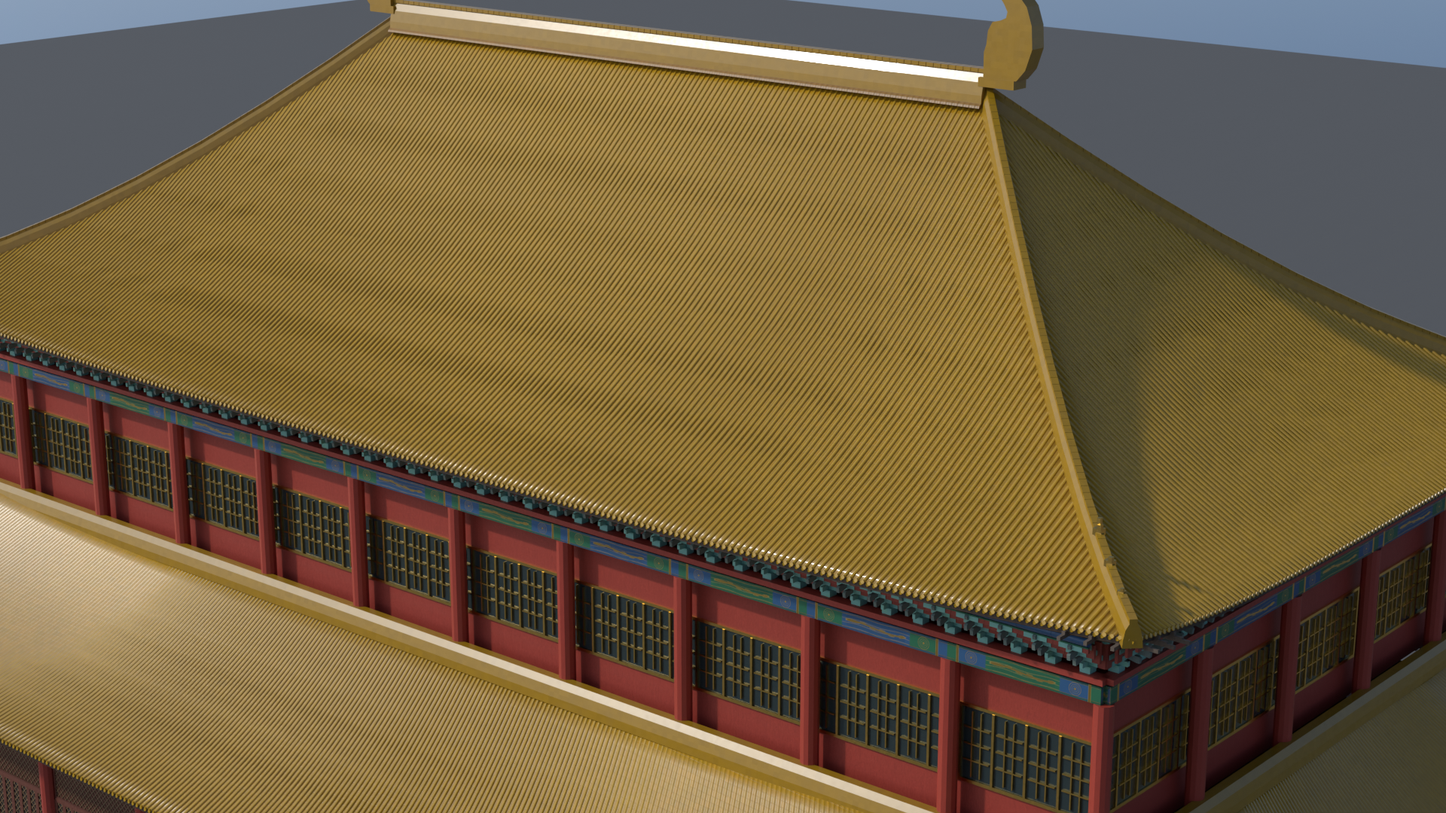
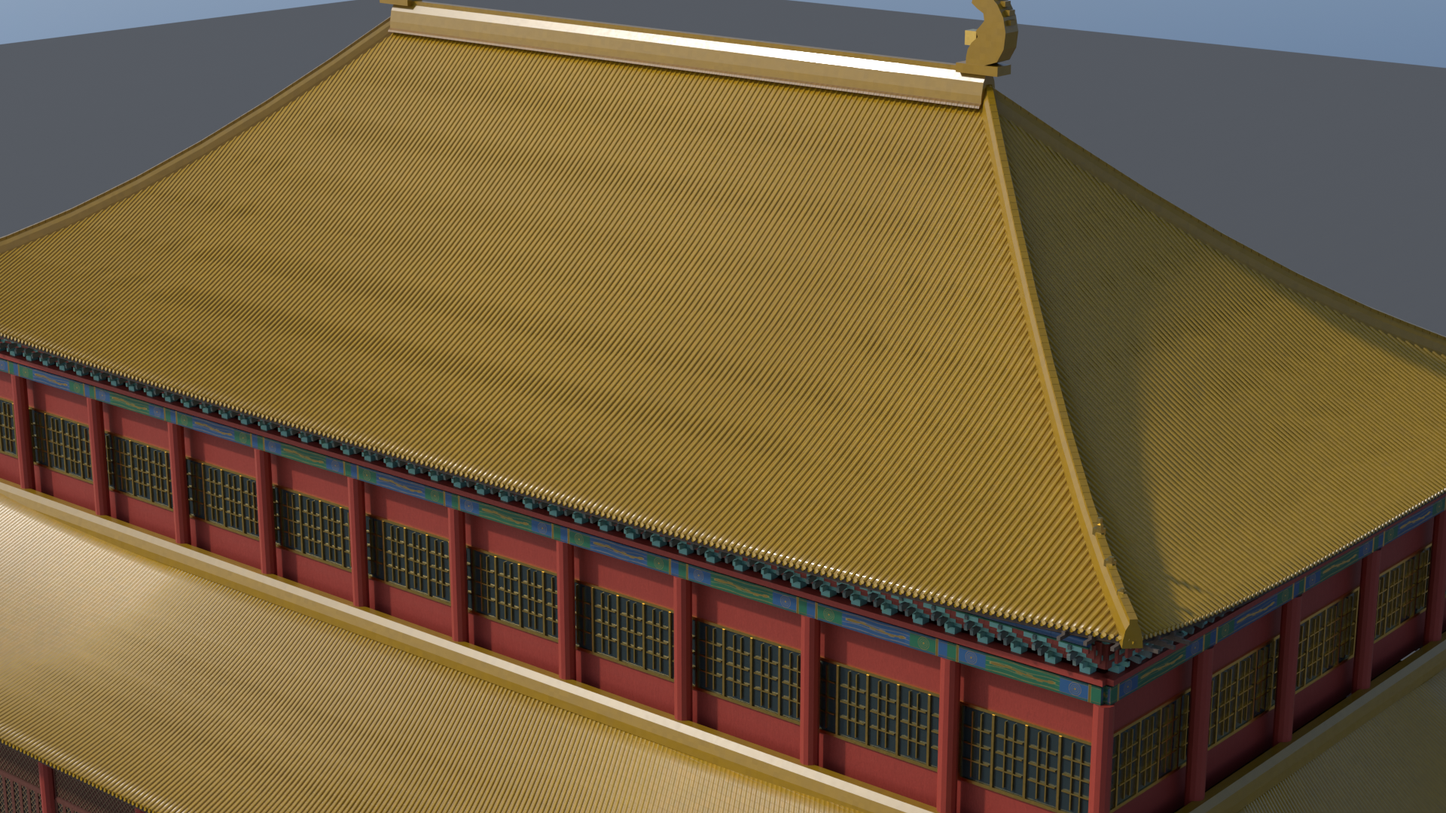
fix(palace): 鸱吻落座正脊＋盖脊瓦成排
- 鸱吻：吻座改坐脊顶（zr+1.26，正脊顶 zr+1.34），原点内移 0.95 m，
  不再大半悬在脊端之外；吻身重画（补吻口、尾尖 3.46 m 内勾、背凹加深），
  加四片背鳍（原本漏了材质，渲染成白块）、龙首、1.5 m 立刃剑把
- 正脊盖脊瓦：中心 zr+1.41→1.38、宽 0.54→0.40（窄于脊顶 0.456）、
  下压 6 cm 露出 17 cm、间距 0.42→0.34，成为脊顶一排真筒瓦
- 五机位整批 57 s

Changed region(s): [[0.6562, 0.0, 0.7188, 0.1222], [0.25, 0.0, 0.3125, 0.0306]]

diff --git a/tools/palace/lg_roof.py b/tools/palace/lg_roof.py
@@ -657,14 +657,14 @@ def ridge_set(pl, name, W, D, z0, H, lift=1.35, lod=2, mat=None, kiss=True):
     objs.append(sweep(pl, name + "·当沟", pts, 0.76, -0.20, 0.10,
                       pl.MAT.get("tile2") or mat))
     # 盖脊瓦：沿正脊顶排一排小块，破掉"一根光板"
-    nseg = max(6, int(L / 0.42))
+    nseg = max(6, int(L / 0.34))
     vv, ff = [], []
     for i in range(nseg):
         t = (i + 0.5) / nseg
         x = -L / 2 + t * L
         # 抬高 0.12 并加宽到 0.54：原来压在正脊圆弧里，根本看不见分件
-        _box_t(vv, ff, (x, 0.0, zr + 1.34 + 0.07), (1.0, 0.0, 0.0), (0.0, 1.0, 0.0),
-               (0.0, 0.0, 1.0), L / nseg - 0.03, 0.54, 0.19)
+        _box_t(vv, ff, (x, 0.0, zr + 1.38), (1.0, 0.0, 0.0), (0.0, 1.0, 0.0),
+               (0.0, 0.0, 1.0), L / nseg + 0.02, 0.40, 0.26)
     objs.append(pl.mesh_from(name + "·盖脊瓦", vv, ff, mat, merge=False))
     if kiss:
         for s in (-1, 1):
@@ -704,27 +704,38 @@ def ridge_set(pl, name, W, D, z0, H, lift=1.35, lod=2, mat=None, kiss=True):
 
 
 def _chiwen(pl, name, x_end, zr, s, mat, gold):
-    """鸱吻（正吻）：吻座 + 卷尾主体 + 剑把 + 背兽。
+    """鸱吻（正吻）：吻座 + 吻身（含吻口）+ 剑把 + 背兽。
 
-    侧看成"逗号"：底宽、背上鼓、尾上卷、口朝脊咬住正脊端；
-    轮廓取直线段（不用多点平滑），4 m 高度在 60 m 外才立得住。
+    三处老毛病一次改掉：
+    * 吻座原本埋在脊筒腰里（0.72），吻身从脊顶下 0.20 m 起 —— 远看是"浮在脊上的钩子"；
+      现改为坐在脊筒顶（`zr+1.26`，正脊顶是 `zr+1.34`），下压 8 cm，找不到缝。
+    * 吻身整体挂在脊端之外（座只有 0.26 m 落在脊上），现把原点内移到 `x_end−0.95`，
+      三成叠在脊上、七成出挑 —— 正吻本来就是咬住脊端往外探的姿态。
+    * 轮廓补出**吻口**（内侧 dz 0.42 收进 −0.06，负值即越过脊端），看得出是"咬"。
     """
-    base_z = zr + 0.72                       # 坐在正脊顶（吻座下皮）
-    # 吻座
-    pl.box(name + "·吻座", 1.95, 1.02, 0.42, x_end + s * 0.72, 0, base_z,
-           mat)
-    z0 = base_z + 0.42
-    prof = [(0.00, 0.00), (1.55, 0.00), (1.95, 0.45), (2.24, 1.30),
-            (2.18, 2.20), (1.92, 2.92), (1.46, 3.42), (1.02, 3.66),
-            (0.72, 3.56), (0.66, 3.22), (0.88, 2.94), (1.04, 2.66),
-            (0.98, 2.42), (0.72, 2.30), (0.36, 2.22), (0.16, 1.86),
-            (0.10, 1.30), (0.00, 1.02)]
-    sc = 1.16
+    sc = 1.0
+    x_org = x_end - s * 0.95
+    base_z = zr + 1.26                       # 正脊顶 = zr+1.34，下压 8 cm
+    pl.box(name + "·吻座", 2.30, 1.10, 0.44, x_org + s * 0.62, 0, base_z, mat)
+    z0 = base_z + 0.40
+    # 侧看成"逗号"：底宽、腹鼓、尾上卷、口朝内咬住正脊
+    prof = [
+        (0.00, 0.00), (0.90, 0.00),
+        (1.70, 0.26), (2.04, 0.86),
+        (2.12, 1.60), (1.96, 2.30),
+        (1.62, 2.86), (1.18, 3.26),
+        (0.72, 3.46), (0.30, 3.20),     # 尾尖、内勾
+        (0.22, 2.82), (0.52, 2.60),
+        (0.88, 2.40), (0.94, 2.06),     # 背凹
+        (0.72, 1.80), (0.50, 1.58),     # 吻口上唇
+        (0.62, 1.30), (0.30, 1.04),     # 吻口内凹
+        (0.08, 0.70), (0.00, 0.34),
+    ]
     verts, faces = [], []
-    half = 0.48
+    half = 0.52
     for (dx, dz) in prof:
-        verts.append((x_end + s * dx * sc, -half, z0 + dz * sc))
-        verts.append((x_end + s * dx * sc, half, z0 + dz * sc))
+        verts.append((x_org + s * dx * sc, -half, z0 + dz * sc))
+        verts.append((x_org + s * dx * sc, half, z0 + dz * sc))
     n = len(prof)
     for i in range(n):
         j = (i + 1) % n
@@ -732,13 +743,20 @@ def _chiwen(pl, name, x_end, zr, s, mat, gold):
     faces.append(tuple(i * 2 for i in range(n)))
     faces.append(tuple(i * 2 + 1 for i in range(n - 1, -1, -1)))
     ob = pl.mesh_from(name, verts, faces, mat, merge=True)
-    # 剑把：斜插在背上
-    pl.box(name + "·剑把", 0.20, 0.20, 1.55, x_end + s * 1.72, 0, z0 + 2.95,
-           gold or mat)
-    pl.box(name + "·剑把座", 0.44, 0.44, 0.26, x_end + s * 1.70, 0, z0 + 2.72,
+    # 背鳍：外背上四片小鳍，远看是一排锯齿，把"一块板"读成"一条鱼/龙"
+    fins = ((2.04, 1.92, 0.30), (1.96, 2.36, 0.28), (1.72, 2.74, 0.26),
+            (1.36, 3.06, 0.22))
+    for (fx, fz, fw) in fins:
+        pl.box(name + "·鳍%.0f" % (fz * 100), fw, 0.44, 0.24,
+               x_org + s * (fx * sc), 0, z0 + (fz * sc), mat)
+    # 龙首：吻口内侧的一团（眼/鼻），让"咬脊"有实体
+    pl.box(name + "·龙首", 0.62, 0.64, 0.66, x_org + s * 0.08, 0,
+           z0 + 0.86, gold or mat)
+    # 剑把：背上的短剑，插在吻脊背凹处（原来是一根细针，读成天线）
+    pl.box(name + "·剑把", 0.20, 0.20, 1.50, x_org + s * 1.28, 0, z0 + 2.30,
            gold or mat)
     # 背兽：尾巴根上的小团
-    pl.box(name + "·背兽", 0.52, 0.52, 0.52, x_end + s * 1.86, 0, z0 + 1.55,
+    pl.box(name + "·背兽", 0.46, 0.46, 0.46, x_org + s * 1.72, 0, z0 + 1.18,
            gold or mat)
     return ob
 

diff --git a/CHANGELOG.md b/CHANGELOG.md
@@ -15,6 +15,8 @@
 
 ### 变更
 
+- **2026-11-23 精模第四十五轮：鸱吻落座、正脊盖瓦成排**：①**鸱吻悬浮的根因**——`base_z = zr+0.72`，而正脊筒实际是 `zr−0.14 → zr+1.34`，吻座整个埋在脊腰里；同时吻身原点就在脊端 `x_end` 上、座只有 0.26 m 落在脊上，余下 1.7 m 悬空。现改为：吻座坐脊顶（`zr+1.26`，下压 8 cm）、原点内移到 `x_end−0.95`，三成叠脊七成出挑，正合正吻「咬住脊端往外探」的姿态。②**吻身重画**——轮廓补出吻口（内侧 dz 0.42 收到 −0.06 即越过脊端）、尾尖加高到 3.46 m 并内勾、背凹加深；另加**四片背鳍**（由外缘探出 0.3 m，此前误写成无材质所以渲染成白块）、**龙首**一团、**剑把**改 1.5 m 立刃（原 1.1 m 细针像天线，删掉多余的剑把座）。③**正脊盖脊瓦**——原来中心压在 `zr+1.41`、宽 0.54 比脊顶（宽 0.456）还宽，只有 2.5 cm 搭接，远看是"一排浮着的牙齿"；改为中心 `zr+1.38`、宽 0.40（窄于脊顶）埋进脊冠 6 cm 再露出 17 cm，间距 0.42→0.34，成为脊顶一排真筒瓦。④实测：五机位 1920×1080、96 spp 整批 57 s（单张 7.5—13.3 s）；「正立面」「屋顶」两张按 1:1 复查过鸱吻与脊顶。
+
 - **2026-11-23 精模第四十四轮：彩画改清式旋子、上檐换真槛窗、斗拱补垫拱板、隔扇不再被墙吞**：①**彩画藻头**——原为一排点阵金点，现按清式**「一整二破」**排：藻头内一个整圆旋子、两端各半个（`|Δu|` 折回藻头局部坐标，环径 0.300／0.212／0.132 m ＋花心，金环宽 9—12 mm）；枋心那条金带由 0.150 收到 0.056（约 6 cm），补**四爪＋尾叉＋头团**，把「一条缎子」读成龙；云纹权重 0.85→0.22。②**重檐上层槛窗**——此前只是四块 0.14 m 厚的贴片，上檐看着是四条无细节灰板；新增 `window_band()`（下槛／上槛／两端边框／分扇边梃／后退的格心暗底／菱花金棂，整圈合成一个网格、两个材质槽），故宫上檐那一圈混金菱花才立得住。③**斗拱垫拱板**——新增 `_bank()`：在拱与拱之间补一层刷红竖板（正面比拱前脸退 0.2 斗口，y 向 −0.55…+0.30），材质表加第 5 槽「斗拱·垫板」（土朱红 0.30/0.048/0.028）。没有它檐下是透空的，整排斗拱读成散块；有了它才是连续板带，斗与拱从板前凸出。④**隔扇被墙吞（本轮挖出的根因）**——`bay_skin` 的外皮只比墙身凸出 5 mm，整排隔扇九成埋进墙里，正立面因此是一大片死红。三层修：墙身在 `lod≥2` 时退到柱轴内 0.35 m（`w−0.70`，`lod<2` 仍贴柱轴）；格心补**背板**（新材质 `window_void` 0.030/0.024/0.019），不再透出砖红墙；棂条 0.028→0.042 m、菱花格眼 0.155→0.235 m（原密度远看像铁丝网）。⑤**横披窗比例**——`door_frac` 0.66→0.80，横披由 3.6 m 收到约 2.4 m，不再占掉大半面墙。⑥实测：单殿 5 机位 1920×1080、96 spp，**单张 7.5—13.4 s、整批 58 s**（build 1.3 s），较上一轮同类出图快三倍；「人视」「檐下」两张按 1:1 复查过隔扇、斗拱、彩画。
 
 - **2026-11-23 精模第三轮：挑台底暗藏灯槽、穹顶放射分格肋、仰望机位移位**：①挑台底面从借用石膏材质改为专用「挑台底·灯槽」（石膏色 + 0.55 自发光），原来上下层挑台之间是一条死黑带，现在读作暗藏灯槽；②穹顶加 **72 道放射分格金肋**（0.50R—0.94R，沿形心径向参数取样、贴穹面 +0.05 m），与中央 72 道光芒呼应；③「仰望穹顶」机位原在 (−452, AX+5, 4.3)——**正好在二层挑台底下**，挑台底一旦发光整屏就是一片灰，已移到池座敞开区 (−468, AX+6, 3.6)、lens 19→17；④台面补光 380→220、台面光再压，消除台口过曝。82 物体 / 65.29 万三角面 / glb(Draco) 7.09 MB。

diff --git a/tools/palace/README.md b/tools/palace/README.md
@@ -171,7 +171,7 @@ lod 阈值 2026-11 由 `w≥42` 降到 `w≥30`——六宫十二院的正殿因
 
 ### 7.5 仍待改
 
-**2026-11 已完成**：重檐上层墙身加高到 `0.082w` 并补一圈真槛窗（`window_band()`：下槛／上槛／边梃／菱花金棂／后退格心，替掉原来四块贴片）；彩画藻头改清式旋子「一整二破」、枋心金龙收细到 6 cm 并补爪与尾；斗拱补垫拱板（相邻拱之间刷红竖板，檐下不再透空）；墙身退到柱轴内 0.35 m ＋格心补暗背板 ＋棂条加粗到 42 mm、格眼 235 mm，隔扇不再被墙吞；横披窗比例收到 2.4 m；围脊加宽到 0.58×0.80；连檐改深色木；平板枋顶加白粉线；走兽改"身＋头＋仙人"；正脊盖脊瓦抬出脊筒；须弥座束腰加如意头；栏板加净瓶；三台栏板在前陛处开口；宫门改多券洞（五/三/一）＋重檐门楼＋女墙＋翼墙八字墙；院门按 `c["gates"]` 逐洞落位；桥吸附河心并抬高架桥台；墙身顶到柱网线补转角缝；光比调到 2.6:1.3；琉璃瓦加 70 m 成片色差；树 611 棵、御花园加园路。
+**2026-11 已完成**：鸱吻改坐脊顶并把原点内移 0.95 m（原来座埋在脊腰、吻身悬空），补背鳍/龙首/立刃剑把；正脊盖脊瓦改窄到 0.40 m、埋进脊冠 6 cm、间距 0.34 m；重檐上层墙身加高到 `0.082w` 并补一圈真槛窗（`window_band()`：下槛／上槛／边梃／菱花金棂／后退格心，替掉原来四块贴片）；彩画藻头改清式旋子「一整二破」、枋心金龙收细到 6 cm 并补爪与尾；斗拱补垫拱板（相邻拱之间刷红竖板，檐下不再透空）；墙身退到柱轴内 0.35 m ＋格心补暗背板 ＋棂条加粗到 42 mm、格眼 235 mm，隔扇不再被墙吞；横披窗比例收到 2.4 m；围脊加宽到 0.58×0.80；连檐改深色木；平板枋顶加白粉线；走兽改"身＋头＋仙人"；正脊盖脊瓦抬出脊筒；须弥座束腰加如意头；栏板加净瓶；三台栏板在前陛处开口；宫门改多券洞（五/三/一）＋重檐门楼＋女墙＋翼墙八字墙；院门按 `c["gates"]` 逐洞落位；桥吸附河心并抬高架桥台；墙身顶到柱网线补转角缝；光比调到 2.6:1.3；琉璃瓦加 70 m 成片色差；树 611 棵、御花园加园路。
 
 
 
